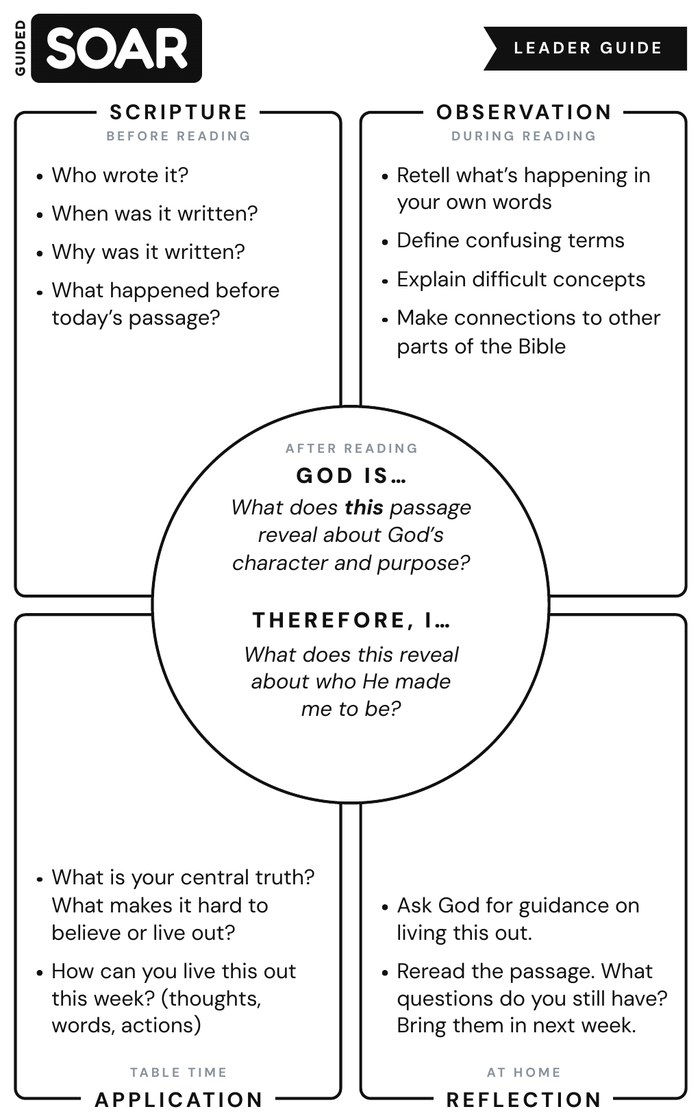
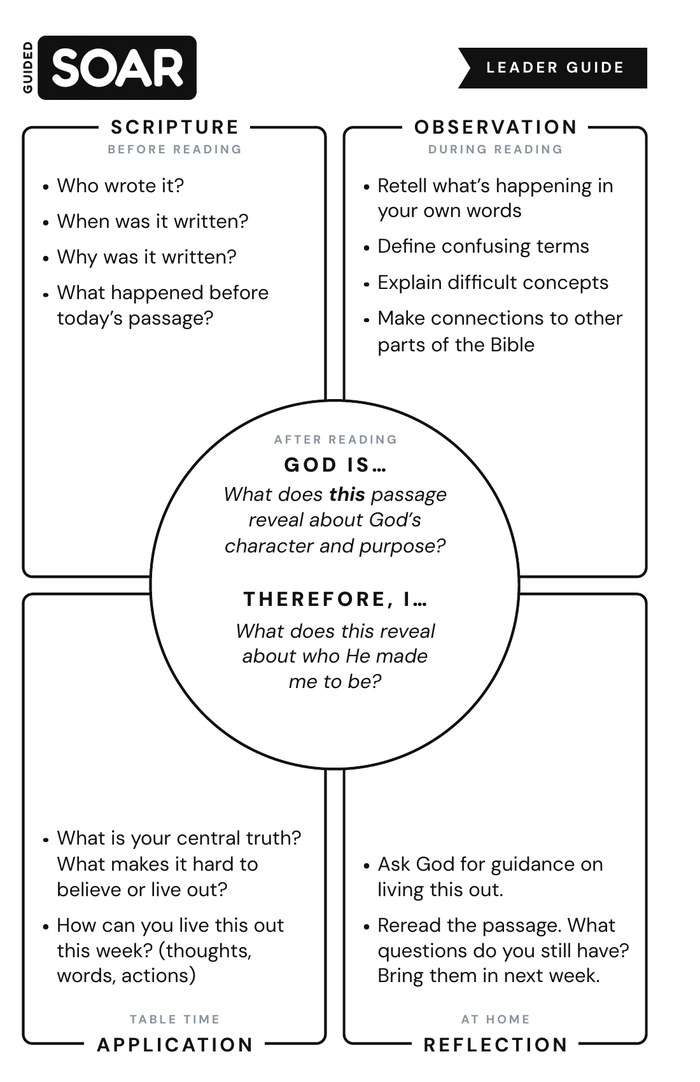
SOAR cards with real half-sheet margins; toolkit radar matches case study style
Claude-Session: https://claude.ai/code/session_01CWSqh8TCyHWequKx4oL8yr

diff --git a/index.html b/index.html
@@ -1688,7 +1688,7 @@ a.tile { text-decoration: none; }
 .tk-head h1:focus:not(:focus-visible) { outline: none; }
 .tk-head h1 { font-family: var(--font-display); font-weight: 800; font-size: clamp(28px, 2.8vw, 40px); line-height: 1.05; margin: 4px 0 0; }
 .tk-head-row { display: flex; justify-content: space-between; align-items: flex-end; gap: 16px; flex-wrap: wrap; }
-.tk-radar-grid { display: grid; grid-template-columns: minmax(0, 1fr) minmax(0, 1.05fr); gap: 20px; align-items: start; margin-top: 6px; }
+.tk-radar-grid { display: grid; grid-template-columns: minmax(0, 1.35fr) minmax(0, 1fr); gap: 20px; align-items: start; margin-top: 6px; }
 .tk-radar { width: 100%; height: auto; display: block; overflow: visible; touch-action: none; cursor: crosshair; user-select: none; }
 .tk-radar .tk-dot { cursor: grab; }
 .tk-radar .tk-axis-label { cursor: pointer; }
@@ -1920,12 +1920,12 @@ a.tile { text-decoration: none; }
                 <img class="hl-back hl-back-1" src="case/guided-soar/soar-card-guided.jpg" alt="" aria-hidden="true" />
                 <img class="hl-back hl-back-2" src="case/guided-soar/soar-card-blank.jpg" alt="" aria-hidden="true" />
                 <div class="hl-card">
-                  <img src="case/guided-soar/soar-card-blank.jpg" alt="Blank Guided SOAR student card with Scripture, Observation, Application and Reflection corners around a center circle." width="700" height="1120" />
-                  <span class="hl-box gap-k" data-i="1" style="left:1.96%;top:9.97%;width:46.77%;height:43.3%;-webkit-mask:radial-gradient(ellipse 62.1% 41.9% at 102.7% 101.5%,transparent 98%,#000 100%);mask:radial-gradient(ellipse 62.1% 41.9% at 102.7% 101.5%,transparent 98%,#000 100%)"></span>
-                  <span class="hl-box gap-s" data-i="2" style="left:51.27%;top:9.97%;width:46.77%;height:43.3%;-webkit-mask:radial-gradient(ellipse 62.1% 41.9% at -2.7% 101.5%,transparent 98%,#000 100%);mask:radial-gradient(ellipse 62.1% 41.9% at -2.7% 101.5%,transparent 98%,#000 100%)"></span>
-                  <span class="hl-box gap-s hl-circle" data-i="2" style="left:21.53%;top:36.14%;width:56.95%;height:35.6%"></span>
-                  <span class="hl-box gap-m" data-i="3" style="left:1.96%;top:54.74%;width:46.77%;height:43.43%;-webkit-mask:radial-gradient(ellipse 62.1% 41.8% at 102.7% -1.8%,transparent 98%,#000 100%);mask:radial-gradient(ellipse 62.1% 41.8% at 102.7% -1.8%,transparent 98%,#000 100%)"></span>
-                  <span class="hl-box gap-h" data-i="4" style="left:51.27%;top:54.74%;width:46.77%;height:43.43%;-webkit-mask:radial-gradient(ellipse 62.1% 41.8% at -2.7% -1.8%,transparent 98%,#000 100%);mask:radial-gradient(ellipse 62.1% 41.8% at -2.7% -1.8%,transparent 98%,#000 100%)"></span>
+                  <img src="case/guided-soar/soar-card-blank.jpg" alt="Blank Guided SOAR student card with Scripture, Observation, Application and Reflection corners around a center circle." width="700" height="1082" />
+                  <span class="hl-box gap-k" data-i="1" style="left:3.09%;top:11.71%;width:43.45%;height:41.65%;-webkit-mask:radial-gradient(ellipse 62.1% 41.9% at 102.7% 101.5%,transparent 98%,#000 100%);mask:radial-gradient(ellipse 62.1% 41.9% at 102.7% 101.5%,transparent 98%,#000 100%)"></span>
+                  <span class="hl-box gap-s" data-i="2" style="left:48.91%;top:11.71%;width:43.45%;height:41.65%;-webkit-mask:radial-gradient(ellipse 62.1% 41.9% at -2.7% 101.5%,transparent 98%,#000 100%);mask:radial-gradient(ellipse 62.1% 41.9% at -2.7% 101.5%,transparent 98%,#000 100%)"></span>
+                  <span class="hl-box gap-s hl-circle" data-i="2" style="left:21.27%;top:36.88%;width:52.9%;height:34.24%"></span>
+                  <span class="hl-box gap-m" data-i="3" style="left:3.09%;top:54.76%;width:43.45%;height:41.76%;-webkit-mask:radial-gradient(ellipse 62.1% 41.8% at 102.7% -1.8%,transparent 98%,#000 100%);mask:radial-gradient(ellipse 62.1% 41.8% at 102.7% -1.8%,transparent 98%,#000 100%)"></span>
+                  <span class="hl-box gap-h" data-i="4" style="left:48.91%;top:54.76%;width:43.45%;height:41.76%;-webkit-mask:radial-gradient(ellipse 62.1% 41.8% at -2.7% -1.8%,transparent 98%,#000 100%);mask:radial-gradient(ellipse 62.1% 41.8% at -2.7% -1.8%,transparent 98%,#000 100%)"></span>
                 </div>
               </div>
             </figure>
@@ -1940,7 +1940,7 @@ a.tile { text-decoration: none; }
           <h3 class="clear-title">For the leaders</h3>
           <p>Leaders can’t model what they haven’t practiced. They get a guided card with questions for every corner, a five-minute prep each week, and training in Dwell, a five-step way to study Scripture.</p>
           <div class="cs-trio">
-            <figure class="case-figure"><img src="case/guided-soar/soar-card-guided.jpg" alt="Guided SOAR leader guide with prompts in every corner." loading="lazy" width="700" height="1120" /><figcaption>Leader guide</figcaption></figure>
+            <figure class="case-figure"><img src="case/guided-soar/soar-card-guided.jpg" alt="Guided SOAR leader guide with prompts in every corner." loading="lazy" width="700" height="1082" /><figcaption>Leader guide</figcaption></figure>
             <figure class="case-figure"><img src="case/guided-soar/leader-prep.jpg" alt="Phone screen of a weekly leader prep page: Take 5 minutes to prep for Mark 1:1-20 before Sunday." loading="lazy" width="585" height="996" /><figcaption>Weekly prep</figcaption></figure>
             <figure class="case-figure"><img src="projects/dwell-front.png" alt="Front of the Dwell bookmark showing the study steps." loading="lazy" /><figcaption>Dwell training</figcaption></figure>
           </div>
@@ -2162,7 +2162,7 @@ a.tile { text-decoration: none; }
             </header>
             <div class="tk-radar-grid">
               <div class="tk-radar-col">
-                <svg class="tk-radar" id="tk-radar-svg" viewBox="-100 -6 600 412" role="img" aria-label="Radar chart of six learning gaps. Drag a point or use the buttons to set each gap."></svg>
+                <svg class="tk-radar" id="tk-radar-svg" viewBox="-175 -26 750 460" role="img" aria-label="Radar chart of six learning gaps. Drag a point or use the buttons to set each gap."></svg>
                 <div class="tk-ask" id="tk-ask" aria-live="polite"></div>
               </div>
               <div class="tk-gaps" id="tk-gaps"></div>
@@ -3063,17 +3063,20 @@ function closeSection() {
 
   var svg = document.getElementById('tk-radar-svg');
   for (var ring = 3; ring >= 1; ring--) {
-    el('polygon', { points: GAPS.map(function (_, i) { return pt(i, ring * STEP).join(','); }).join(' '), fill: ring === 3 ? '#fff' : 'none', stroke: '#c9d8dd', 'stroke-width': 1.5 }, svg);
+    el('polygon', { points: GAPS.map(function (_, i) { return pt(i, ring * STEP).join(','); }).join(' '), fill: ring === 3 ? '#fff' : 'none', stroke: '#d3e0e4', 'stroke-width': ring === 3 ? 1.5 : 1, 'stroke-dasharray': ring === 3 ? 'none' : '4 4' }, svg);
   }
-  GAPS.forEach(function (_, i) { var p = pt(i, R); el('line', { x1: C, y1: C, x2: p[0], y2: p[1], stroke: '#d8e4e8', 'stroke-width': 1.2 }, svg); });
-  ['MINOR', 'SOME', 'MAJOR'].forEach(function (t, k) { var tx = el('text', { x: C - 12, y: C - (k + 1) * STEP + 4, 'text-anchor': 'end', 'font-size': 11, 'font-weight': 700, 'letter-spacing': 1, fill: '#6b8490', 'font-family': 'Open Sans, sans-serif' }, svg); tx.textContent = t; });
-  var shape = el('polygon', { fill: '#0c4a6e', 'fill-opacity': .16, stroke: '#0c4a6e', 'stroke-width': 3, 'stroke-linejoin': 'round' }, svg);
-  var dots = [], labels = [];
+  GAPS.forEach(function (_, i) { var p = pt(i, R); el('line', { x1: C, y1: C, x2: p[0], y2: p[1], stroke: '#e1eaed', 'stroke-width': 1 }, svg); });
+  var shape = el('polygon', { fill: '#0c4a6e', 'fill-opacity': .16, stroke: '#0c4a6e', 'stroke-width': 2.5, 'stroke-linejoin': 'round' }, svg);
+  var dots = [], labels = [], levels = [];
   GAPS.forEach(function (g, i) {
-    var lp = pt(i, R + 22), anchor = Math.abs(lp[0] - C) < 5 ? 'middle' : (lp[0] > C ? 'start' : 'end');
-    var t = el('text', { x: lp[0], y: lp[1] + (i === 0 ? -4 : i === 3 ? 14 : 5), 'text-anchor': anchor, 'font-family': 'Raleway, sans-serif', 'font-weight': 800, 'font-size': 19, class: 'tk-axis-label' }, svg);
+    var lp = pt(i, R + 30), anchor = Math.abs(lp[0] - C) < 5 ? 'middle' : (lp[0] > C ? 'start' : 'end');
+    var ly = lp[1] + (i === 0 ? -20 : i === 3 ? 12 : -4);
+    var t = el('text', { x: lp[0], y: ly, 'text-anchor': anchor, 'font-family': 'Raleway, sans-serif', 'font-weight': 800, 'font-size': 25, class: 'tk-axis-label' }, svg);
     t.textContent = g.name; t.addEventListener('click', function () { setActive(i); });
     labels.push(t);
+    var lv = el('text', { x: lp[0], y: ly + 21, 'text-anchor': anchor, 'font-family': 'Open Sans, sans-serif', 'font-weight': 700, 'font-size': 15, 'letter-spacing': 1.4, class: 'tk-axis-label' }, svg);
+    lv.addEventListener('click', function () { setActive(i); });
+    levels.push(lv);
     dots.push(el('circle', { r: 9, fill: g.color, stroke: '#fff', 'stroke-width': 3, class: 'tk-dot' }, svg));
   });
 
@@ -3100,8 +3103,13 @@ function closeSection() {
     shape.setAttribute('points', vals.map(function (v, i) { return pt(i, v * STEP).join(','); }).join(' '));
     GAPS.forEach(function (g, i) {
       var p = pt(i, vals[i] * STEP); dots[i].setAttribute('cx', p[0]); dots[i].setAttribute('cy', p[1]);
-      dots[i].setAttribute('r', i === active ? 11 : 8);
-      labels[i].setAttribute('fill', vals[i] >= 2 || i === active ? '#0c1d26' : '#6b8490');
+      var strong = vals[i] >= 2 || i === active;
+      dots[i].setAttribute('r', i === active ? 11 : (vals[i] === 3 ? 9 : 7));
+      dots[i].setAttribute('fill', strong ? g.color : '#8a9aa3');
+      labels[i].setAttribute('fill', strong ? g.color : '#7b8d96');
+      labels[i].style.textDecoration = i === active ? 'underline' : 'none';
+      levels[i].textContent = vals[i] === 0 ? 'NO GAP' : LEVELS[vals[i]].toUpperCase() + ' GAP';
+      levels[i].setAttribute('fill', vals[i] >= 2 ? '#16252d' : '#8a9aa3');
       rows[i].classList.toggle('is-active', i === active);
       rows[i].querySelectorAll('.tk-seg button').forEach(function (b, k) { b.setAttribute('aria-pressed', String(k === vals[i])); });
     });
